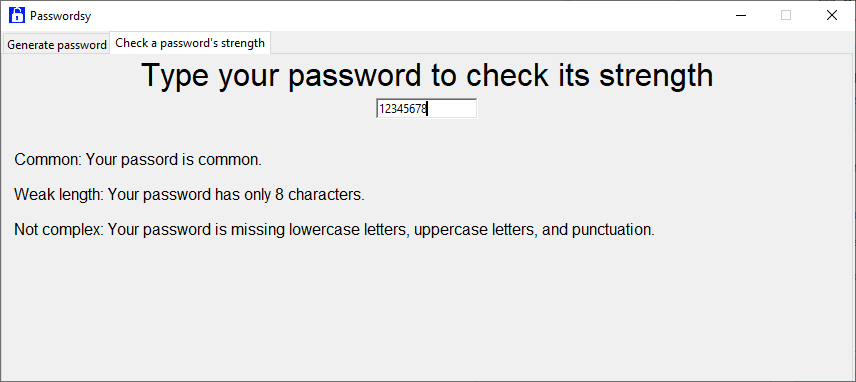
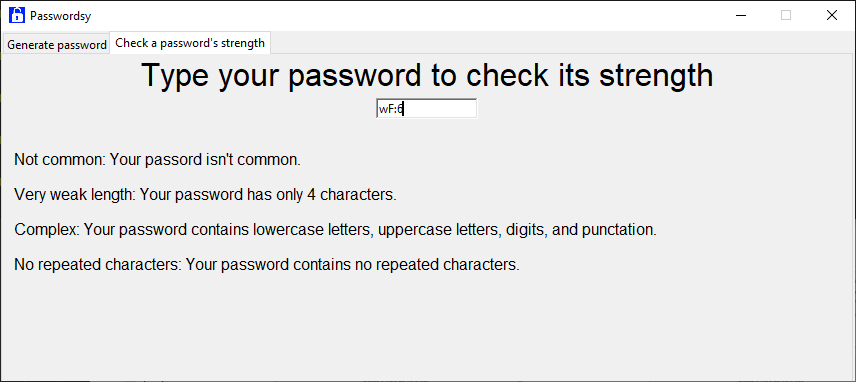
Updated some screenshots, corrected a typo

diff --git a/password_generator/password_strength.py b/password_generator/password_strength.py
@@ -220,7 +220,7 @@ def check_password_strength(event):
                     show_repeated_pattern_warning()
 
             if are_there_repeated_characters == False:
-                fourth_label.configure(text = 'No repeated characters: Your password contains at least one repeated character.')
+                fourth_label.configure(text = 'No repeated characters: Your password contains no repeated characters.')
                 fourth_label.place(relx = 0.01, rely = 0.6, anchor = 'w')
 
 
